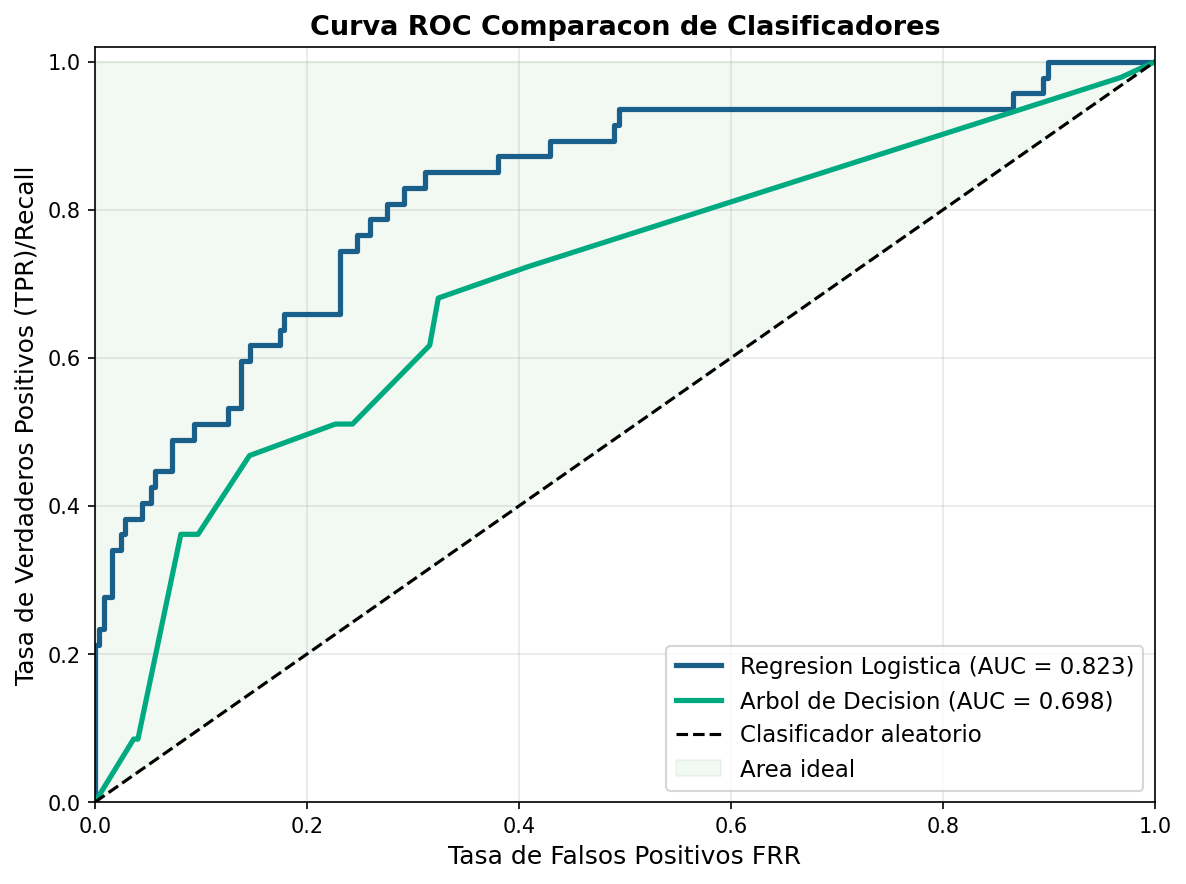
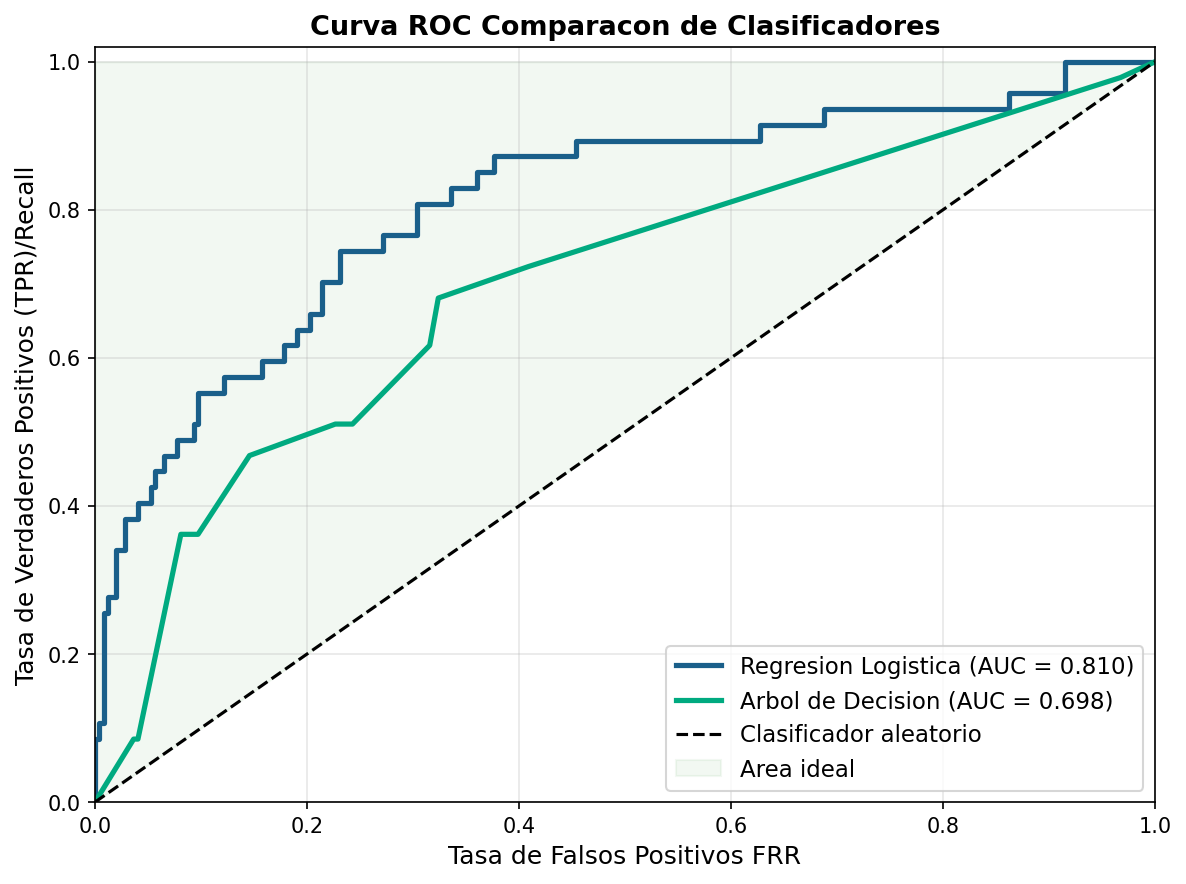
supervisado completo

diff --git a/Visualización/Sesion05/app_ml.py b/Visualización/Sesion05/app_ml.py
@@ -1,0 +1,183 @@
+
+from shiny import App, ui, render, reactive
+import pandas as pd
+import numpy as np
+import joblib
+import json
+
+# ── Cargar modelos al arrancar la app (una sola vez) ─────────
+modelo_lr   = joblib.load("modelo_clasificador_lr.pkl")
+modelo_perm = joblib.load("modelo_permanencia.pkl")
+modelo_sal  = joblib.load("modelo_salario.pkl")
+
+with open("features_clasificador.json") as f: import json; feats_clf = json.load(f)
+with open("features_permanencia.json")  as f: feats_perm = json.load(f)
+with open("features_salario.json")      as f: feats_sal  = json.load(f)
+
+# ── CSS ──────────────────────────────────────────────────────
+css_lines = [
+    "    body { background:#F4F6F9; font-family:Segoe UI,Arial,sans-serif; }",
+    "    .navbar { background:#1F3864 !important; }",
+    "    .navbar-brand, .nav-link { color:white !important; font-weight:500; }",
+    "    .pred-box { background:white; border-radius:10px; padding:24px;",
+    "               box-shadow:0 2px 8px rgba(0,0,0,.1); text-align:center; }",
+    "    .pred-valor { font-size:2.4em; font-weight:bold; }",
+    "    .pred-label { font-size:.9em; color:#666; margin-top:6px; }",
+]
+css = ui.tags.style(chr(10).join(css_lines))
+
+# ── UI ───────────────────────────────────────────────────────
+app_ui = ui.page_navbar(css,
+
+    # PESTANA 1 -- CLASIFICADOR
+    ui.nav_panel("Predictor de renuncia",
+        ui.layout_sidebar(
+            ui.sidebar(
+                ui.h5("Perfil del empleado"),
+                ui.input_slider("age",       "Edad",              18, 60, 35),
+                ui.input_slider("jobsat",    "Satisfaccion (1-4)", 1,  4,  3),
+                ui.input_slider("envsat",    "Sat. Ambiente (1-4)",1,  4,  3),
+                ui.input_slider("wlb",       "Bal. Vida-Trabajo",  1,  4,  3),
+                ui.input_slider("jobinv",    "Involucramiento",    1,  4,  3),
+                ui.input_slider("stock",     "Stock Options",      0,  3,  0),
+                ui.input_slider("years_co",  "Anos en empresa",    0, 40,  2),
+                ui.input_slider("income",    "Salario mensual",  1000,20000,5000,step=500),
+                ui.input_slider("prev_cos",  "Empresas previas",  0,  9,  1),
+                ui.input_slider("total_yrs", "Anos experiencia",  0, 40,  5),
+                ui.input_slider("yrs_mgr",   "Anos con manager",  0, 17,  2),
+                ui.input_select("overtime",  "Horas extra",
+                                {"No":"No","Yes":"Si (Yes)"}),
+                ui.input_select("marital",   "Estado civil",
+                                {"Single":"Soltero","Married":"Casado","Divorced":"Divorciado"}),
+                ui.input_select("travel",    "Viajes de trabajo",
+                                {"Non-Travel":"No viaja",
+                                 "Travel_Rarely":"Raramente",
+                                 "Travel_Frequently":"Frecuente"}),
+            ),
+            ui.output_ui("pred_renuncia"),
+            ui.output_ui("comparacion_score"),
+        )
+    ),
+
+    # PESTANA 2 -- PERMANENCIA
+    ui.nav_panel("Permanencia estimada",
+        ui.layout_sidebar(
+            ui.sidebar(
+                ui.h5("Perfil del empleado"),
+                ui.input_slider("p_age",     "Edad",              18, 60, 30),
+                ui.input_slider("p_joblvl",  "Nivel de puesto",    1,  5,  2),
+                ui.input_slider("p_jobsat",  "Satisfaccion (1-4)", 1,  4,  3),
+                ui.input_slider("p_wlb",     "Bal. Vida-Trabajo",  1,  4,  3),
+                ui.input_slider("p_income",  "Salario mensual", 1000,20000,4000,step=500),
+                ui.input_slider("p_numcos",  "Empresas previas",   0,  9,  1),
+                ui.input_slider("p_totalyrs","Anos experiencia",   0, 40,  5),
+            ),
+            ui.output_ui("pred_permanencia"),
+        )
+    ),
+
+    # PESTANA 3 -- SALARIO
+    ui.nav_panel("Salario estimado",
+        ui.layout_sidebar(
+            ui.sidebar(
+                ui.h5("Perfil del empleado"),
+                ui.input_slider("s_joblvl",  "Nivel de puesto",    1,  5,  2),
+                ui.input_slider("s_totalyrs","Anos experiencia",   0, 40,  5),
+                ui.input_slider("s_educ",    "Educacion (1-5)",    1,  5,  3),
+                ui.input_select("s_jobrole", "Puesto",
+                    {"0":"Healthcare Rep","1":"Human Resources",
+                     "2":"Laboratory Tech","3":"Manager",
+                     "4":"Manufacturing Dir","5":"Research Dir",
+                     "6":"Research Scientist","7":"Sales Exec","8":"Sales Rep"}),
+            ),
+            ui.output_ui("pred_salario"),
+        )
+    ),
+
+    title="TechNova Solutions -- Predictor de RH con ML",
+)
+
+# ── SERVER ───────────────────────────────────────────────────
+def server(input, output, session):
+
+    @render.ui
+    def pred_renuncia():
+        le_ot = {"No":0,"Yes":1}
+        le_ms = {"Single":2,"Married":1,"Divorced":0}
+        le_bt = {"Non-Travel":0,"Travel_Frequently":1,"Travel_Rarely":2}
+
+        fila = pd.DataFrame([[
+            input.age(), input.jobsat(), input.envsat(), input.wlb(),
+            input.jobinv(), input.stock(), input.years_co(), input.income(),
+            input.prev_cos(), input.total_yrs(), input.yrs_mgr(),
+            le_ot[input.overtime()], le_ms[input.marital()], le_bt[input.travel()]
+        ]], columns=feats_clf)
+
+        prob  = modelo_lr.predict_proba(fila)[0][1]
+        pred  = modelo_lr.predict(fila)[0]
+
+        if prob >= 0.70:   color = "#C62828"; nivel = "RIESGO ALTO"
+        elif prob >= 0.40: color = "#F57F17"; nivel = "RIESGO MEDIO"
+        else:              color = "#2E7D32"; nivel = "RIESGO BAJO"
+
+        # Score manual para comparar
+        ot_val  = 100 if input.overtime()=="Yes" else 0
+        js_val  = (4 - input.jobsat()) / 3 * 100
+        yr_val  = max(0, (3 - input.years_co()) / 3 * 100)
+        wlb_val = (4 - input.wlb()) / 3 * 100
+        es_val  = (4 - input.envsat()) / 3 * 100
+        score   = (ot_val*0.30 + js_val*0.25 + yr_val*0.20 +
+                   wlb_val*0.15 + es_val*0.10)
+
+        return ui.div(
+            ui.row(
+                ui.column(6, ui.div(
+                    ui.div(f"{prob*100:.1f} %", class_="pred-valor",
+                           style=f"color:{color};"),
+                    ui.div(f"Probabilidad de renuncia -- {nivel}", class_="pred-label"),
+                    class_="pred-box")),
+                ui.column(6, ui.div(
+                    ui.div(f"{score:.1f}/100", class_="pred-valor",
+                           style="color:#1A5F8A;"),
+                    ui.div("Score manual (metodo S5)", class_="pred-label"),
+                    class_="pred-box")),
+            )
+        )
+
+    @render.ui
+    def comparacion_score():
+        return ui.div(
+            ui.p("Columna izquierda: modelo ML (aprendio de los datos historicos). "
+                 "Columna derecha: score manual construido en S5 con reglas del analista. "
+                 "¿Coinciden? ¿Cual confias mas?",
+                 style="color:#666;font-size:13px;margin-top:12px;")
+        )
+
+    @render.ui
+    def pred_permanencia():
+        fila = pd.DataFrame([[
+            input.p_age(), input.p_joblvl(), input.p_jobsat(),
+            input.p_wlb(), input.p_income(), input.p_numcos(), input.p_totalyrs()
+        ]], columns=feats_perm)
+        anos = max(0, modelo_perm.predict(fila)[0])
+        if anos >= 5:   color = "#2E7D32"
+        elif anos >= 2: color = "#F57F17"
+        else:           color = "#C62828"
+        return ui.div(ui.div(
+            ui.div(f"{anos:.1f} anos", class_="pred-valor", style=f"color:{color};"),
+            ui.div("Permanencia estimada en la empresa", class_="pred-label"),
+            class_="pred-box"), style="max-width:400px;margin:40px auto;")
+
+    @render.ui
+    def pred_salario():
+        fila = pd.DataFrame([[
+            int(input.s_joblvl()), int(input.s_totalyrs()),
+            int(input.s_educ()), int(input.s_jobrole())
+        ]], columns=feats_sal)
+        sal = max(0, modelo_sal.predict(fila)[0])
+        return ui.div(ui.div(
+            ui.div(f"${sal:,.0f}", class_="pred-valor", style="color:#6A1B9A;"),
+            ui.div("Salario mensual estimado (USD)", class_="pred-label"),
+            class_="pred-box"), style="max-width:400px;margin:40px auto;")
+
+app = App(app_ui, server)